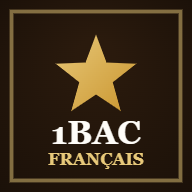
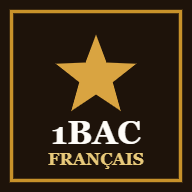
fix: corrections post-audit — ligue vide, icônes, modération pseudos
- Ligue : moins de 3 inscrits n'affiche plus un classement vide
  (signal social négatif pour les premiers visiteurs) mais un état
  « ligue en formation X/3 » qui invite à partir en tête
- Icônes PWA redessinées à plat : 224 Ko → 27 Ko (512) et
  41 Ko → 8 Ko (192), validées bit à bit (CRC + inflate)
- Pseudos : liste noire FR/darija côté serveur (autorité, remplace
  par « Élève ») + côté client (refus immédiat avec message)

Changed region(s): [[0.0312, 0.0312, 0.9688, 0.9688], [0.2812, 0.1875, 0.5312, 0.4375]]

diff --git a/assets/js/gamification.js b/assets/js/gamification.js
@@ -1316,8 +1316,12 @@ function renderLeaderboard(){
     fetch('/api/leaderboard').then(function(r){ return r.json(); }).then(function(data){
       var list = document.getElementById('gLeagueList');
       if (!list) return;
-      if (!data.ok || !data.top || !data.top.length) {
-        list.innerHTML = '<p class="g-league-empty">Sois le premier de la semaine — chaque XP compte ! 🚀</p>';
+      /* Moins de 3 inscrits : ne jamais montrer un classement vide (signal
+         « personne n'utilise ») — on cadre en « ligue en formation ». */
+      if (!data.ok || !data.top || data.top.length < 3) {
+        var n = (data.ok && data.top) ? data.top.length : 0;
+        list.innerHTML = '<p class="g-league-empty">🏗 <b>Ligue en formation : ' + n + '/3 élèves</b> cette semaine.<br>' +
+          'Le classement s’ouvre dès 3 inscrits — gagne des XP dès maintenant pour partir en tête ! 🚀</p>';
         return;
       }
       var myId = window.pf1bacDeviceId ? window.pf1bacDeviceId() : '';
@@ -1344,10 +1348,30 @@ function renderLeaderboard(){
   } catch(e){}
 }
 
+/* modération des pseudos : filtre partagé avec le serveur (qui reste
+   l'autorité) — ici uniquement pour un retour immédiat à l'élève */
+var PSEUDO_INTERDITS = ['merde','putain','pute','connard','connasse','salope','encul','nique','ntm','fdp','batard','zamel','zamle','7mar','hmar','9a7ba','kahba','qa7ba','zebi','zbi','zeb','couille','bite','penis','nazi','hitler','haine','tue-toi'];
+function pseudoInterdit(p){
+  var n = String(p).toLowerCase()
+    .normalize('NFD').replace(/[̀-ͯ]/g, '')
+    .replace(/0/g, 'o').replace(/1/g, 'i').replace(/3/g, 'e').replace(/4/g, 'a').replace(/5/g, 's')
+    .replace(/[\s_.-]/g, '');
+  var brut = String(p).toLowerCase().replace(/[\s_.-]/g, '');
+  return PSEUDO_INTERDITS.some(function(m){
+    var mm = m.replace(/[\s_.-]/g, '');
+    return n.indexOf(mm) !== -1 || brut.indexOf(mm) !== -1;
+  });
+}
+
 window.gJoinLeague = function(){
   var inp = document.getElementById('gPseudoInput');
   var pseudo = (inp && inp.value || '').replace(/[<>"'&\\/]/g, '').trim().slice(0, 15);
   if (!pseudo) { if (inp) inp.focus(); return; }
+  if (pseudoInterdit(pseudo)) {
+    toast('🚫 Ce pseudo n’est pas autorisé — choisis-en un autre.');
+    if (inp) { inp.value = ''; inp.focus(); }
+    return;
+  }
   G.pseudo = pseudo;
   save();
   toast('🏆 Bienvenue dans la ligue, ' + pseudo + ' !');

diff --git a/netlify/functions/leaderboard.js b/netlify/functions/leaderboard.js
@@ -14,11 +14,26 @@ function isoWeek(d) {
   return date.getUTCFullYear() + '-W' + String(week).padStart(2, '0');
 }
 
+const PSEUDO_INTERDITS = ['merde','putain','pute','connard','connasse','salope','encul','nique','ntm','fdp','batard','zamel','zamle','7mar','hmar','9a7ba','kahba','qa7ba','zebi','zbi','zeb','couille','bite','penis','nazi','hitler','haine','tue-toi'];
+function pseudoInterdit(p) {
+  const n = String(p).toLowerCase()
+    .normalize('NFD').replace(/[̀-ͯ]/g, '')
+    .replace(/0/g, 'o').replace(/1/g, 'i').replace(/3/g, 'e').replace(/4/g, 'a').replace(/5/g, 's')
+    .replace(/[\s_.-]/g, '');
+  const brut = String(p).toLowerCase().replace(/[\s_.-]/g, '');
+  return PSEUDO_INTERDITS.some((m) => {
+    const mm = m.replace(/[\s_.-]/g, '');
+    return n.includes(mm) || brut.includes(mm);
+  });
+}
+
 function sanitizePseudo(raw) {
-  return String(raw || '')
+  const p = String(raw || '')
     .replace(/[<>"'&\\/]/g, '')
     .trim()
     .slice(0, 15) || 'Anonyme';
+  // autorité serveur : un pseudo interdit devient neutre, quoi que fasse le client
+  return pseudoInterdit(p) ? 'Élève' : p;
 }
 
 exports.handler = async (event) => {

diff --git a/sw.js b/sw.js
@@ -1,6 +1,6 @@
 /* Service worker — app shell en cache, stale-while-revalidate.
    Les appels /api/ (validation premium) ne sont jamais interceptés. */
-var CACHE = 'pf1bac-v6';
+var CACHE = 'pf1bac-v7';
 var SHELL = [
   './',
   './index.html',
